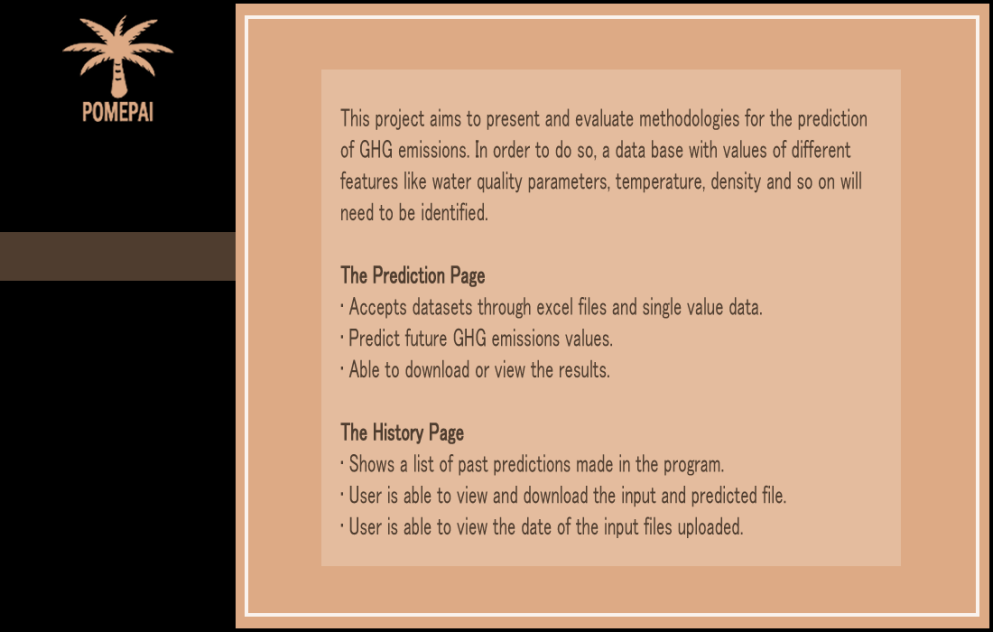
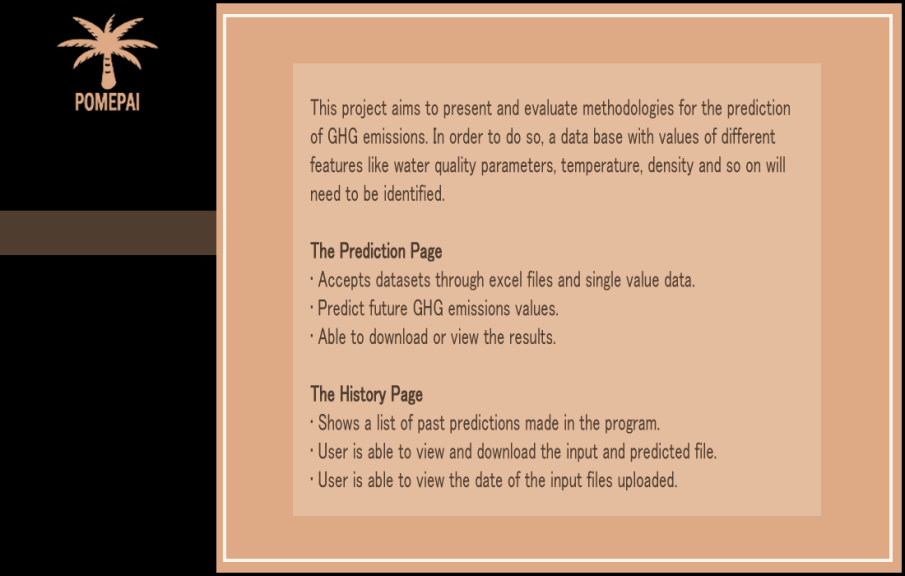
change bg size and added new prediction page

Changed region(s): [[0.0, 0.0, 0.2475, 1.0], [0.9901, 0.0, 1.0, 1.0]]

diff --git a/Software.py b/Software.py
@@ -31,7 +31,7 @@ class tkinterApp(tk.Tk):
 
         self.frames = {}
 
-        for F in (HomePage, PredictionPage, HistoryPage, OutputPage):
+        for F in (HomePage, PredictionPage, PredictionPage2, HistoryPage, OutputPage):
             frame = F(container, self)
 
             self.frames[F] = frame
@@ -106,15 +106,22 @@ class HomePage(tk.Frame):
                                 command=lambda: controller.show_frame(HomePage))
         aboutButton.grid(column=0, row=0, padx=(0, 840), pady=(0, 135))
 
-        predictButton = tk.Button(self, text="PREDICT", fg="#DDAA85", bg="Black", width=30, height=2, bd=0, activebackground="Black",
+        predictButton = tk.Button(self, text="PREDICTION (SINGLE)", fg="#DDAA85", bg="Black", width=30, height=2, bd=0, activebackground="Black",
                                   activeforeground="#DDAA85", font=('Raleway', 10, 'bold'),
                                   command=lambda: controller.show_frame(PredictionPage))
         predictButton.grid(column=0, row=0, padx=(0, 840), pady=(100, 70))
 
-        historyButton = tk.Button(self, text="HISTORY", fg="#DDAA85", bg="Black", width=30, height=2, bd=0, activebackground="Black",
-                                  activeforeground="#DDAA85", font=('Raleway', 10, 'bold'),
+        predictButton2 = tk.Button(self, text="PREDICTION (EXCEL)", fg="#DDAA85", bg="Black", width=30, height=2, bd=0,
+                                  activebackground="Black", activeforeground="#DDAA85",
+                                  font=('Raleway', 10, 'bold'),
+                                  command=lambda: controller.show_frame(PredictionPage2))
+        predictButton2.grid(column=0, row=0, padx=(0, 840), pady=(300, 100))
+
+        historyButton = tk.Button(self, text="HISTORY", fg="#DDAA85", bg="Black", width=30, height=2, bd=0,
+                                  activebackground="#4F3D2F", activeforeground="BLACK",
+                                  font=('Raleway', 10, 'bold'),
                                   command=lambda: controller.show_frame(HistoryPage))
-        historyButton.grid(column=0, row=0, padx=(0, 840), pady=(300, 100))
+        historyButton.grid(column=0, row=0, padx=(0, 840), pady=(460, 100))
 
 
 class PredictionPage(tk.Frame):
@@ -145,13 +152,9 @@ class PredictionPage(tk.Frame):
                                activeforeground="#DDAA85", command=lambda: controller.show_frame(HomePage))
         aboutButton.grid(column=0, row=0, padx=(0, 840), pady=(0, 135))
 
-        predictButton = tk.Button(self, text="PREDICT", fg="#DDAA85", bg="#4F3D2F", width=30, height=2, bd=0, font=('Raleway', 10, 'bold'),  activebackground="#4F3D2F",
+        predictButton = tk.Button(self, text="PREDICTION (SINGLE)", fg="#DDAA85", bg="#4F3D2F", width=30, height=2, bd=0, font=('Raleway', 10, 'bold'),  activebackground="#4F3D2F",
                                   activeforeground="#DDAA85", command=lambda: controller.show_frame(PredictionPage))
         predictButton.grid(column=0, row=0, padx=(0, 840), pady=(100, 70))
-
-        historyButton = tk.Button(self, text="HISTORY", fg="#DDAA85", bg="Black", width=30, height=2, bd=0, font=('Raleway', 10, 'bold'), activebackground="Black",
-                                  activeforeground="#DDAA85", command=lambda: controller.show_frame(HistoryPage))
-        historyButton.grid(column=0, row=0, padx=(0, 840), pady=(300, 100))
 
         input1 = tk.StringVar()
         input2 = tk.StringVar()
@@ -251,6 +254,18 @@ class PredictionPage(tk.Frame):
         input16Entered = tk.Entry(self, width=40, command=clear(), textvariable=input16)
         input16Entered.grid(column=0, row=0, padx=(700, 0), pady=(300, 0))
 
+        predictButton2 = tk.Button(self, text="PREDICTION (EXCEL)", fg="#DDAA85", bg="Black", width=30, height=2, bd=0,
+                                  activebackground="Black", activeforeground="#DDAA85",
+                                  font=('Raleway', 10, 'bold'),
+                                  command=lambda: controller.show_frame(PredictionPage2))
+        predictButton2.grid(column=0, row=0, padx=(0, 840), pady=(300, 100))
+
+        historyButton = tk.Button(self, text="HISTORY", fg="#DDAA85", bg="Black", width=30, height=2, bd=0,
+                                  activebackground="#4F3D2F", activeforeground="BLACK",
+                                  font=('Raleway', 10, 'bold'),
+                                  command=lambda: controller.show_frame(HistoryPage))
+        historyButton.grid(column=0, row=0, padx=(0, 840), pady=(460, 100))
+
         importButton = tk.Button(self, text="IMPORT FILE", command=getExcel, fg="#4F3D2F", bg="white", width=10, height=1,bd=0)
         importButton.grid(column=0, row=0, padx=(10, 380), pady=(520, 20))
 
@@ -262,13 +277,64 @@ class PredictionPage(tk.Frame):
                                 command=lambda: clear())
         ClearButton.grid(column=0, row=0, padx=(850, 80), pady=(520, 20))
 
+class PredictionPage2(tk.Frame):
+    def __init__(self, parent, controller):
+        tk.Frame.__init__(self, parent)
+
+        def getExcel():
+            file = askopenfile(filetypes=[('Excel Files', '*.xlsx')])
+            inputExcelFile = load_workbook(filename=file.name)
+            inputExcelFile2 = inputExcelFile.active
+
+            file_label = tk.Label(self, text='File Uploaded Successfully!', foreground='green')
+            file_label.grid(column=0, row=0, padx=(10, 600), pady=(680, 15))
+            file_label.after(3000, lambda: file_label.destroy())
+
+        # Background image
+        bg = Image.open("Pictures/GUI3.png")
+        resizebg = bg.resize((1100,700), Image.ANTIALIAS)
+
+        self.newbg = ImageTk.PhotoImage(resizebg)
+        rectangle = tk.Canvas(self, width=1100, height=700, borderwidth=0, highlightthickness=0)
+        rectangle.create_image(0, 0, image=self.newbg, anchor=NW)
+        rectangle.create_text(130, 155, text="POME Prediction AI", fill="#DDAA85", font=('Raleway', 17, 'bold'))
+        rectangle.create_text(370, 630, text="(ONLY .xlsx FILES)", fill="Black", font=('Raleway', 10))
+        rectangle.grid(row=0, column=0)
+
+        aboutButton = tk.Button(self, text="ABOUT", fg="#DDAA85", bg="Black", width=30, height=2, bd=0,font=('Raleway', 10, 'bold'), activebackground="Black",
+                               activeforeground="#DDAA85", command=lambda: controller.show_frame(HomePage))
+        aboutButton.grid(column=0, row=0, padx=(0, 840), pady=(0, 135))
+
+        predictButton = tk.Button(self, text="PREDICTION (SINGLE)", fg="#DDAA85", bg="Black", width=30, height=2, bd=0, font=('Raleway', 10, 'bold'),  activebackground="Black",
+                                  activeforeground="#DDAA85", command=lambda: controller.show_frame(PredictionPage))
+        predictButton.grid(column=0, row=0, padx=(0, 840), pady=(100, 70))
+
+        predictButton2 = tk.Button(self, text="PREDICTION (EXCEL)", fg="#DDAA85", bg="#4F3D2F", width=30, height=2, bd=0,
+                                   activebackground="#4F3D2F", activeforeground="#DDAA85",
+                                   font=('Raleway', 10, 'bold'),
+                                   command=lambda: controller.show_frame(PredictionPage2))
+        predictButton2.grid(column=0, row=0, padx=(0, 840), pady=(300, 100))
+
+        historyButton = tk.Button(self, text="HISTORY", fg="#DDAA85", bg="Black", width=30, height=2, bd=0,
+                                  activebackground="#4F3D2F", activeforeground="BLACK",
+                                  font=('Raleway', 10, 'bold'),
+                                  command=lambda: controller.show_frame(HistoryPage))
+        historyButton.grid(column=0, row=0, padx=(0, 840), pady=(460, 100))
+
+        importButton = tk.Button(self, text="IMPORT FILE", command=getExcel, fg="#4F3D2F", bg="white", width=10,
+                                 height=1, bd=0)
+        importButton.grid(column=0, row=0, padx=(10, 380), pady=(520, 20))
+
+        doPredictionButton = tk.Button(self, text="DO PREDICTION", fg="#4F3D2F", bg="white", width=13, height=1, bd=0,
+                                       command=lambda: controller.show_frame(OutputPage))
+        doPredictionButton.grid(column=0, row=0, padx=(350, 80), pady=(520, 20))
 
 class HistoryPage(tk.Frame):
     def __init__(self, parent, controller):
         tk.Frame.__init__(self, parent)
 
         # Background image
-        bg = Image.open("Pictures/GUI3.png")
+        bg = Image.open("Pictures/GUI4.png")
         resizebg = bg.resize((1100, 700), Image.ANTIALIAS)
 
         self.newbg = ImageTk.PhotoImage(resizebg)
@@ -282,15 +348,22 @@ class HistoryPage(tk.Frame):
                                 command=lambda: controller.show_frame(HomePage))
         aboutButton.grid(column=0, row=0, padx=(0, 840), pady=(0, 135))
 
-        predictButton = tk.Button(self, text="PREDICT",fg="#DDAA85", bg="Black", width=30, height=2, bd=0, activebackground="Black", activeforeground="#DDAA85",
+        predictButton = tk.Button(self, text="PREDICTION (SINGLE)",fg="#DDAA85", bg="Black", width=30, height=2, bd=0, activebackground="Black", activeforeground="#DDAA85",
                                   font=('Raleway', 10, 'bold'),
                                   command=lambda: controller.show_frame(PredictionPage))
         predictButton.grid(column=0, row=0, padx=(0, 840), pady=(100, 70))
 
-        historyButton = tk.Button(self, text="HISTORY",fg="#DDAA85", bg="#4F3D2F", width=30, height=2, bd=0, activebackground="#4F3D2F", activeforeground="#DDAA85",
+        predictButton2 = tk.Button(self, text="PREDICTION (EXCEL)", fg="#DDAA85", bg="Black", width=30, height=2, bd=0,
+                                  activebackground="Black", activeforeground="#DDAA85",
+                                  font=('Raleway', 10, 'bold'),
+                                  command=lambda: controller.show_frame(PredictionPage2))
+        predictButton2.grid(column=0, row=0, padx=(0, 840), pady=(300, 100))
+
+        historyButton = tk.Button(self, text="HISTORY", fg="#DDAA85", bg="#4F3D2F", width=30, height=2, bd=0,
+                                  activebackground="#4F3D2F", activeforeground="#DDAA85",
                                   font=('Raleway', 10, 'bold'),
                                   command=lambda: controller.show_frame(HistoryPage))
-        historyButton.grid(column=0, row=0, padx=(0, 840), pady=(300, 100))
+        historyButton.grid(column=0, row=0, padx=(0, 840), pady=(460, 100))
 
 
 class OutputPage(tk.Frame):
@@ -298,7 +371,7 @@ class OutputPage(tk.Frame):
         tk.Frame.__init__(self, parent)
 
         # Background image
-        bg = Image.open("Pictures/GUI2.png")
+        bg = Image.open("Pictures/GUI5.png")
         resizebg = bg.resize((1100, 700), Image.ANTIALIAS)
 
         self.newbg = ImageTk.PhotoImage(resizebg)
@@ -313,15 +386,22 @@ class OutputPage(tk.Frame):
                                 activeforeground="#DDAA85", command=lambda: controller.show_frame(HomePage))
         aboutButton.grid(column=0, row=0, padx=(0, 840), pady=(0, 135))
 
-        predictButton = tk.Button(self, text="PREDICT", fg="#DDAA85", bg="#4F3D2F", width=30, height=2, bd=0,
-                                  font=('Raleway', 10, 'bold'), activebackground="#4F3D2F",
+        predictButton = tk.Button(self, text="PREDICTION (SINGLE)", fg="#DDAA85", bg="Black", width=30, height=2, bd=0,
+                                font=('Raleway', 10, 'bold'), activebackground="#4F3D2F",
                                   activeforeground="#DDAA85", command=lambda: controller.show_frame(PredictionPage))
         predictButton.grid(column=0, row=0, padx=(0, 840), pady=(100, 70))
 
+        predictButton2 = tk.Button(self, text="PREDICTION (EXCEL)", fg="#DDAA85", bg="Black", width=30, height=2, bd=0,
+                                  activebackground="Black", activeforeground="#DDAA85",
+                                  font=('Raleway', 10, 'bold'),
+                                  command=lambda: controller.show_frame(PredictionPage2))
+        predictButton2.grid(column=0, row=0, padx=(0, 840), pady=(300, 100))
+
         historyButton = tk.Button(self, text="HISTORY", fg="#DDAA85", bg="Black", width=30, height=2, bd=0,
-                                  font=('Raleway', 10, 'bold'), activebackground="Black",
-                                  activeforeground="#DDAA85", command=lambda: controller.show_frame(HistoryPage))
-        historyButton.grid(column=0, row=0, padx=(0, 840), pady=(300, 100))
+                                  activebackground="#4F3D2F", activeforeground="BLACK",
+                                  font=('Raleway', 10, 'bold'),
+                                  command=lambda: controller.show_frame(HistoryPage))
+        historyButton.grid(column=0, row=0, padx=(0, 840), pady=(460, 100))
 
         newDataButton = tk.Button(self, text="INPUT NEW DATA", fg="#4F3D2F", bg="white", width=17, height=1, bd=0)
         newDataButton.grid(column=0, row=0, padx=(10, 380), pady=(520, 20))
